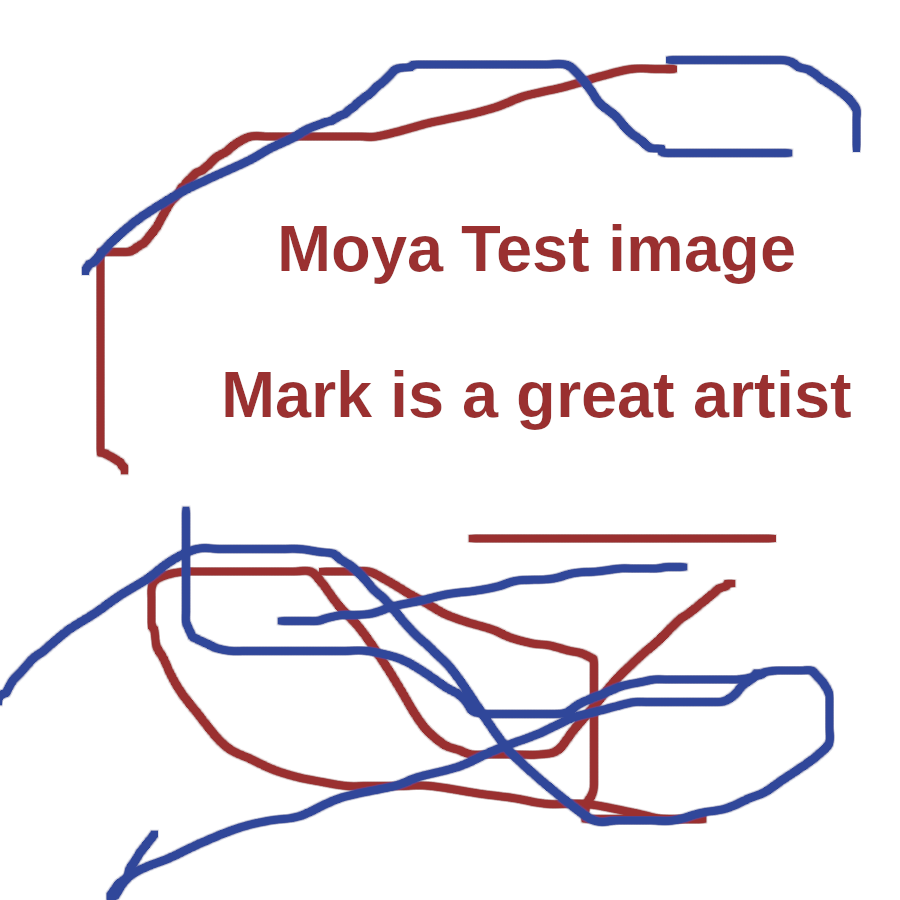
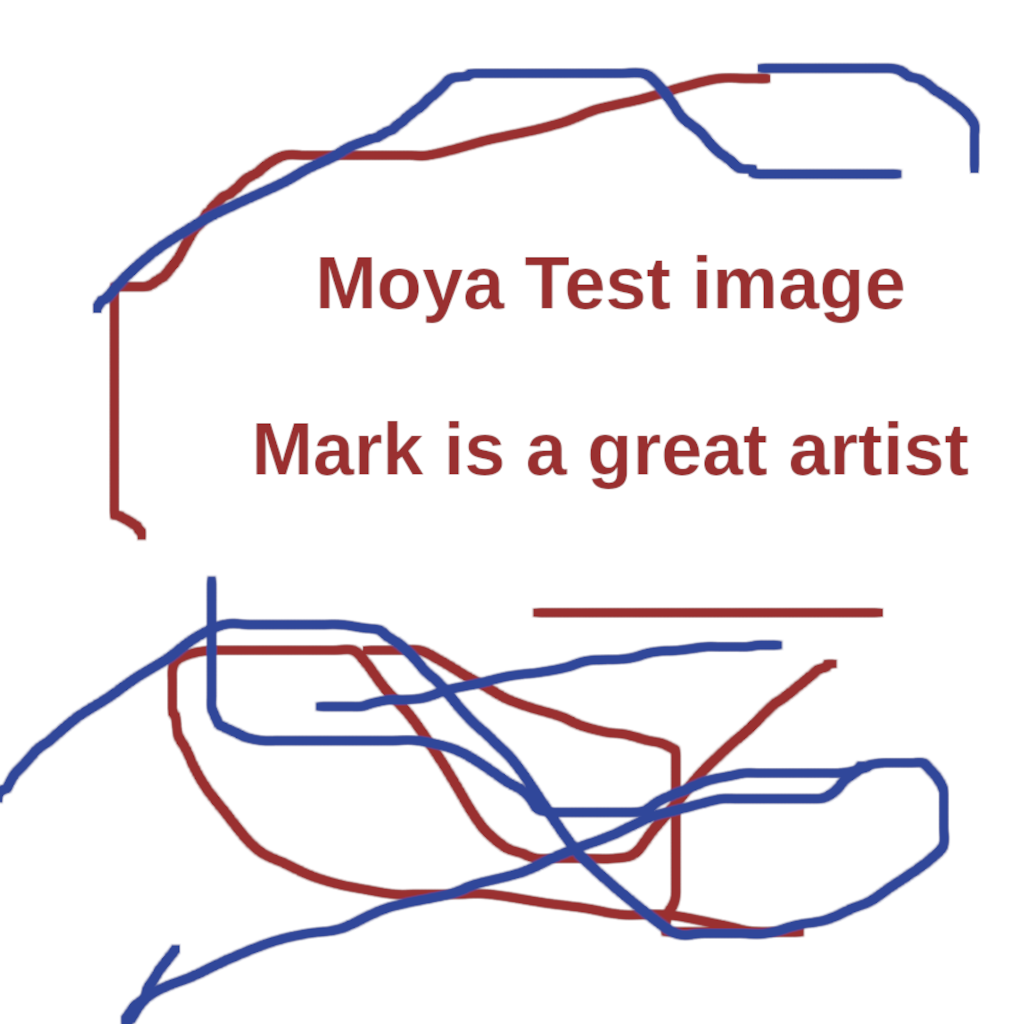
Detail bad request

diff --git a/moya/messaging.py b/moya/messaging.py
@@ -33,7 +33,7 @@ class API:
         except:
             pass
 
-        raise Exception(f"{r.status_code} Server error: {reason}")
+        raise Exception(f"{r.status_code} Server error: {reason}. Query was {path} with {content}")
 
     def generate_send_text_body(self, to, body, recipient_type="individual", priority="low", allow_merge=True):
         return {
